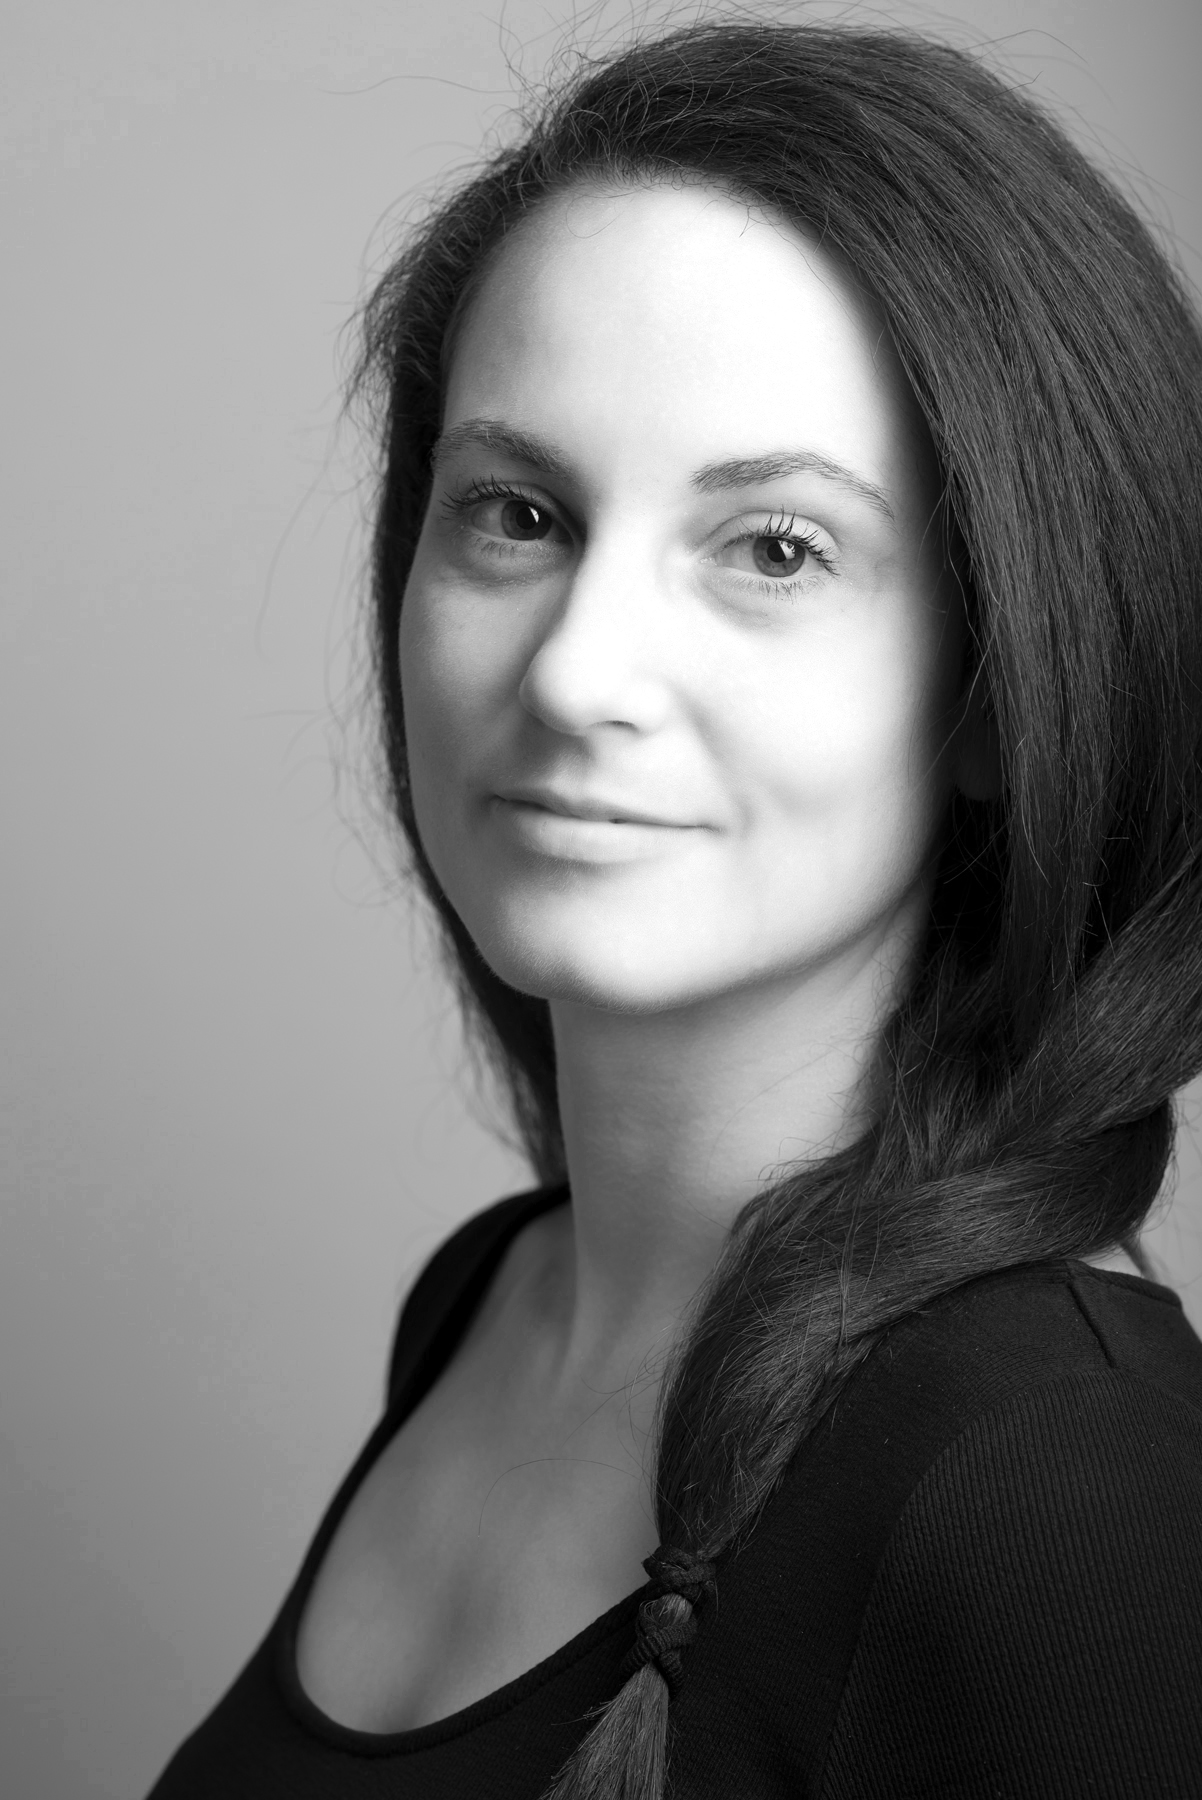
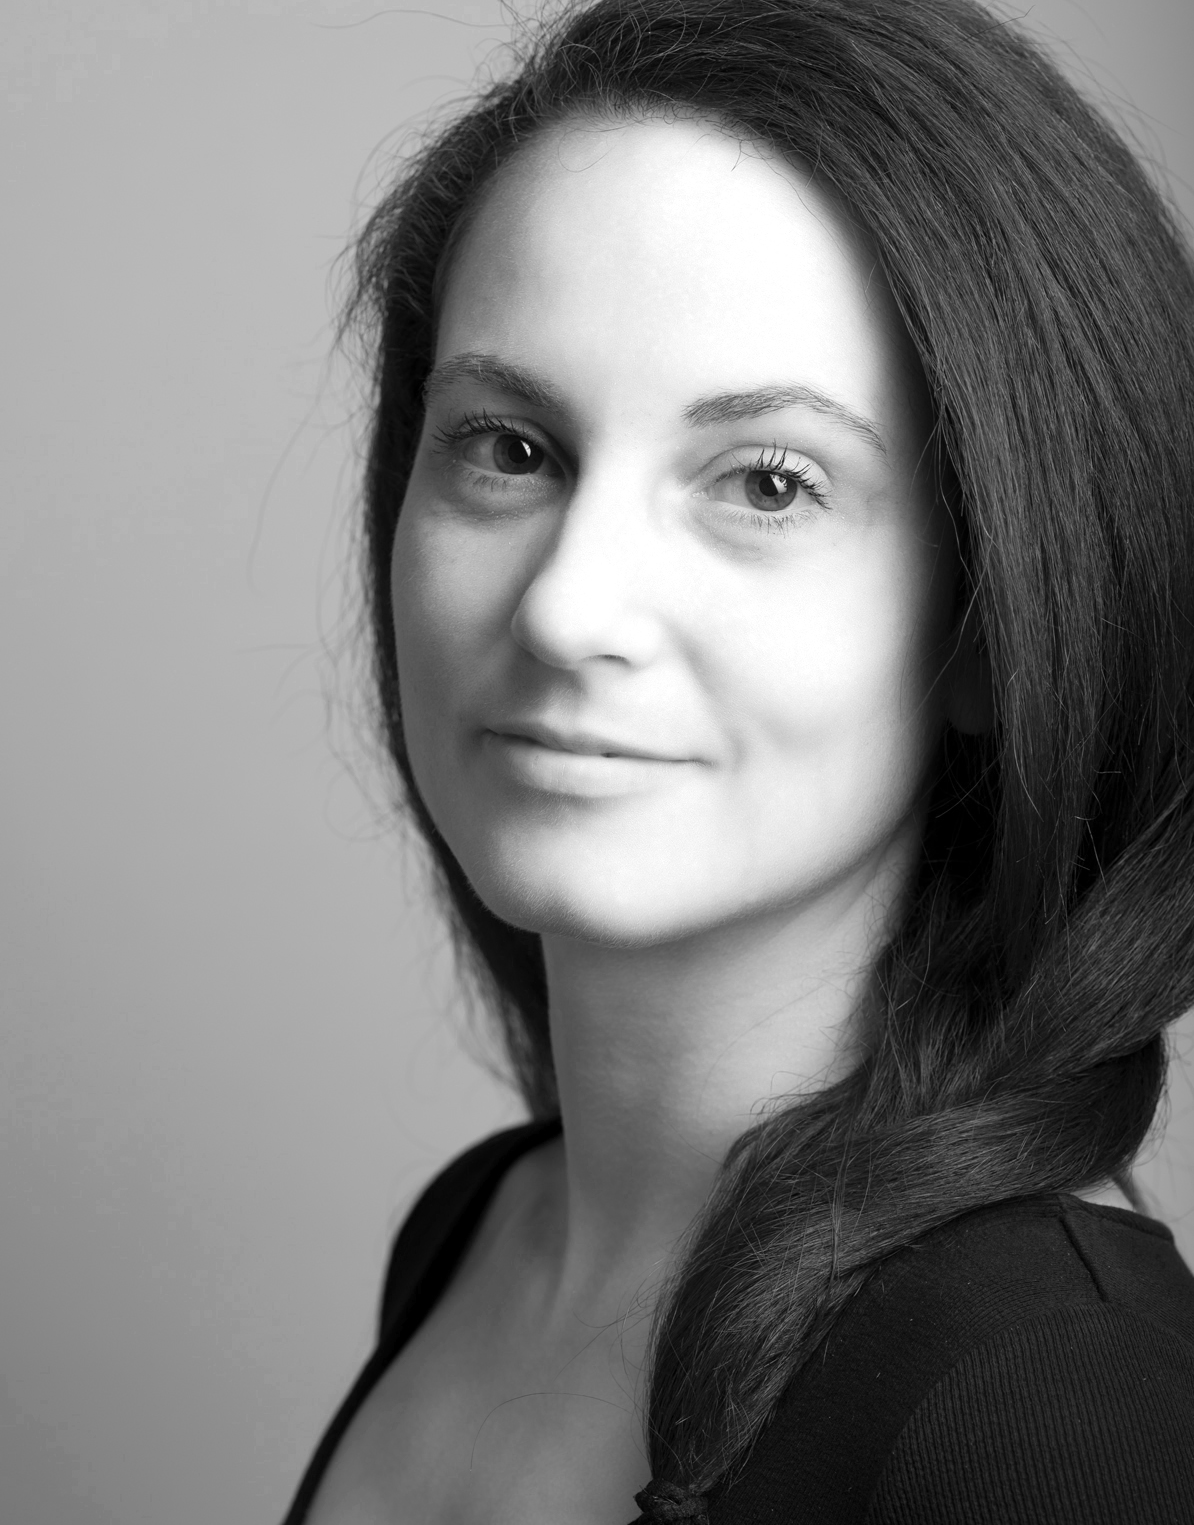
n

Changed region(s): [[0.124, 0.0, 1.0, 1.0], [0.7437, 0.863, 0.8987, 0.9862]]

diff --git a/index.html b/index.html
@@ -25,7 +25,7 @@
   max-width: 24%;
 }
 </style>
-<span class="icon fa-gem"></span>
+<span class="icon  fa-atom"></span>
 				     </div>
 
 						 						<div class="content">
@@ -76,7 +76,8 @@
 									ps, in preperation. <p>
 									<i>An analysis of seismic phases related to core-mantle boundary using full-waveforms and adjoint methods,</i> in preparation.
 							  <p> 2.  <b>M. Koroni</b> and J. Trampert,<i> Imaging global mantle discontinuities: a test using full-waveforms and adjoint kernels,</i>
-									Geophysical Journal International, 2021, in print. <p>
+									Geophysical Journal International, 2021. <p>
+									<a href=" 	https://doi.org/10.1093/gji/ggab119"> doi.org/10.1093/gji/ggab119</a>
 									<p> 3. 	S.M. Haugland, J. Ritsema, D Sun, J. Trampert, <b>M. Koroni</b>,
 										 <i>Common reflection point mapping of the mantle transition zone using recorded and 3-D synthetic ScS reverberations,</i>
                   	Geophysical Journal International, Volume 220, Issue 1, January 2020, Pages 724–736,</p>
